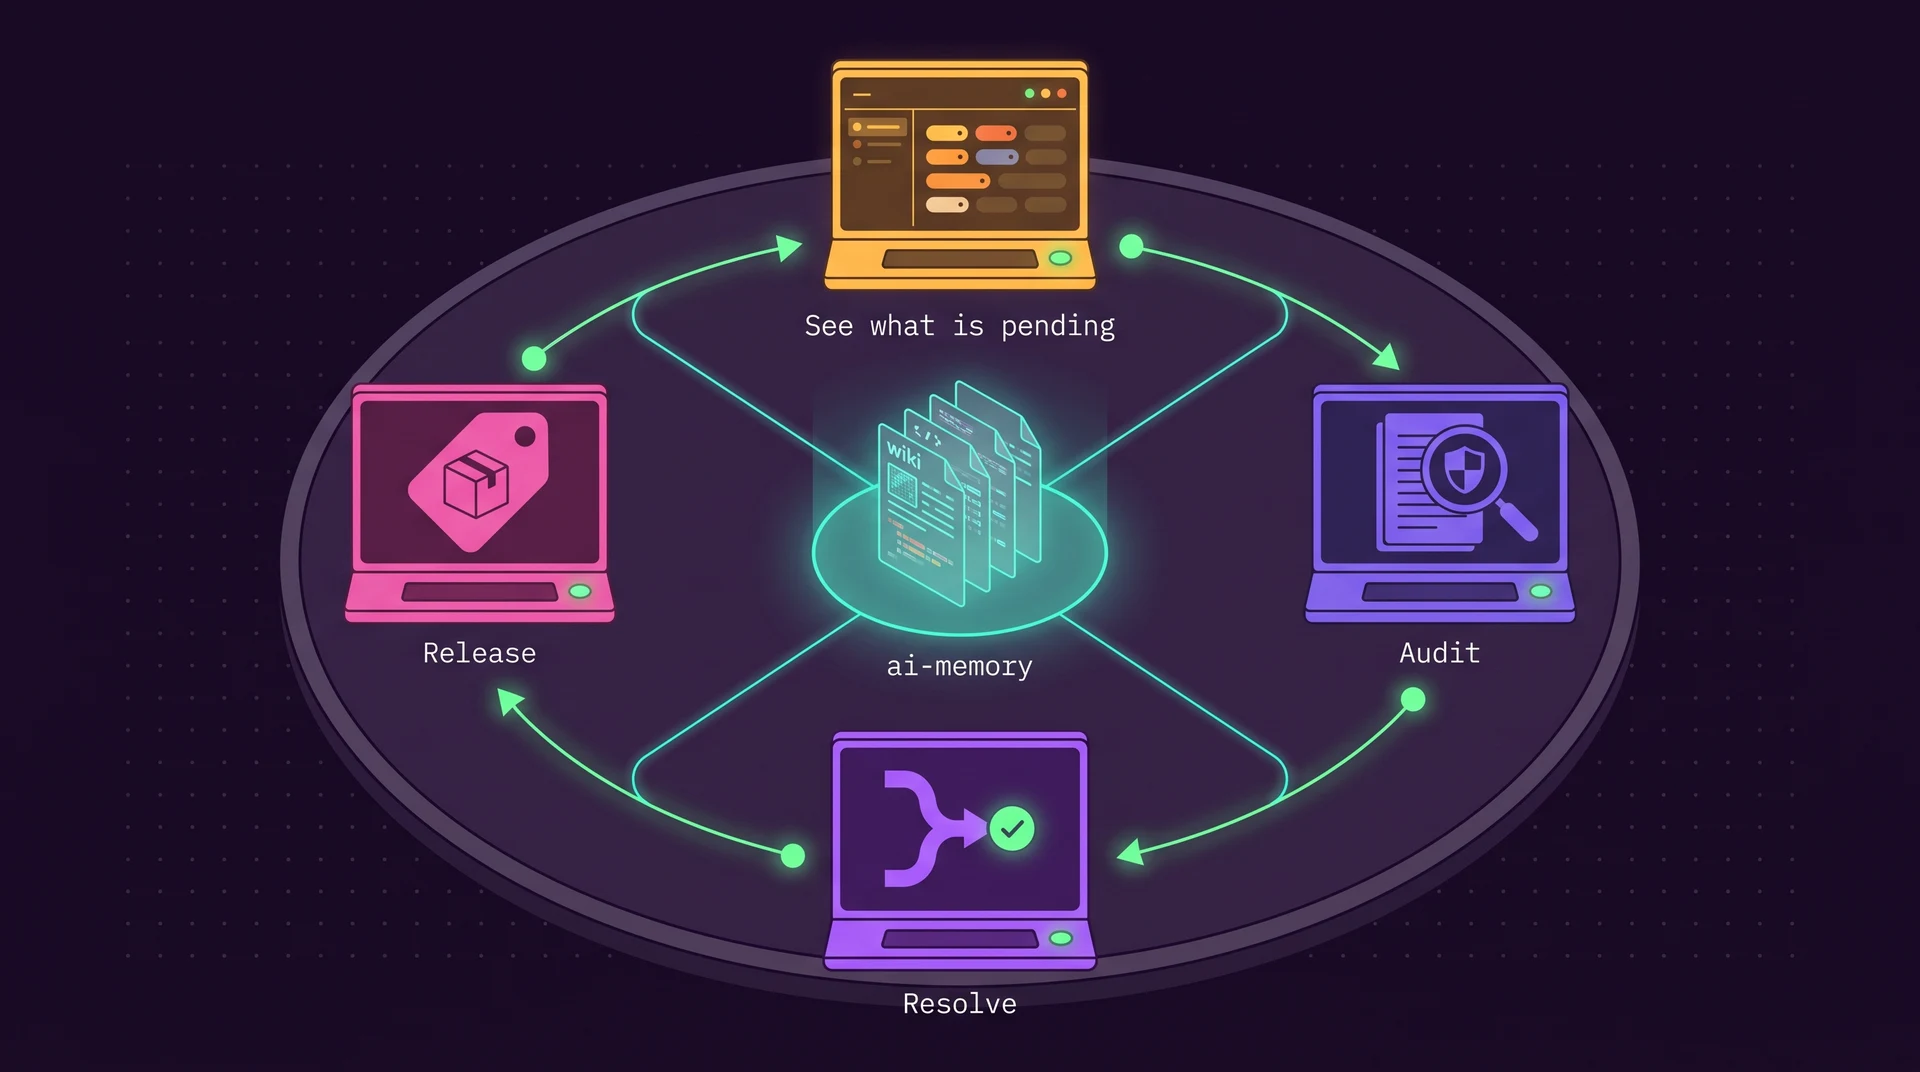
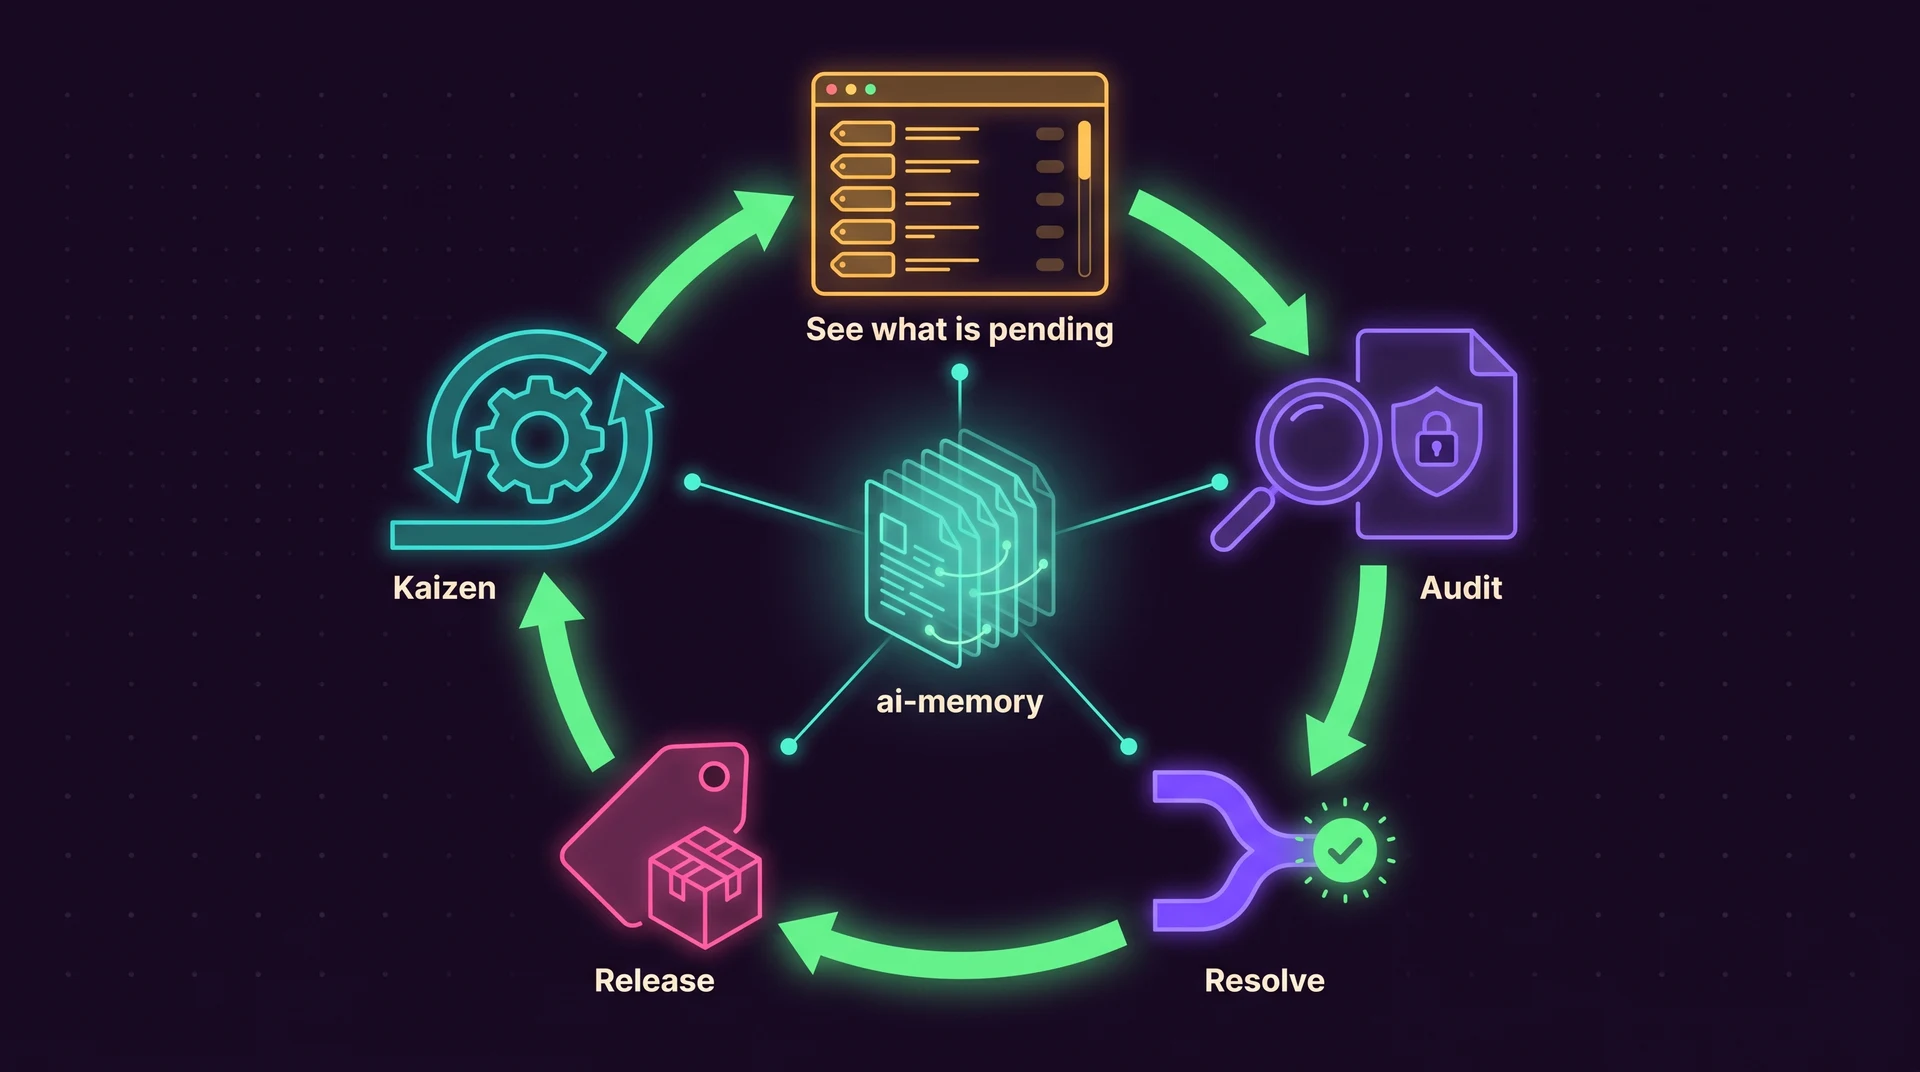
Humanizer pass, deduplication, and kaizen in the loop
- Copy: removed not-X-but-Y contrasts, aphorisms, closers and forced
  triads flagged by the humanizer skill.
- Duplicates: the home page gets a compact benchmark teaser linking to the
  full block on the writing page; the ai-memory run commands and the
  switch diagram each live in one place.
- Kaizen: fifth station of the daily loop and last step of the pipeline,
  with a section on the workflow page. Both diagrams regenerated.

diff --git a/docs/sources.md b/docs/sources.md
@@ -93,6 +93,7 @@ YouTube answers bursts of requests with a bot check. `refresh-videos.mjs` caches
 
 | Source | Lands in |
 |---|---|
+| Owner's instructions (2026-09-23): the loop does not end at release; kaizen, continuous improvement of tools, setup, harness instructions and skills from the problems found. The quote "Every line in these skills is a scar" and the two pr-bump rules are from the skills post (section 3) | `home.json` `loop`, `workflow.json` `kaizen`, diagrams `home-loop` and `workflow-pipeline` |
 | Owner's instructions (2026-09-23): the intro line (programmer for 30+ years, entrepreneur, speaker, writer, former YouTuber) linking to LinkedIn | `home.json` `hero.intro` |
 | Owner's instructions (2026-09-23): contact email `boss@akitaonrails.com` and the warning that goes with it (no sales, no sponsorship, no automatic reply, silence means no) | `site.ts` `site.email`, `home.json` `contact`, footer `Contact` link to `/#contact` |
 | Owner's instructions (2026-09-23): runs Omarchy and donated to its foundation; tmux mainly so nothing dies when a terminal closes; tried Herdr and agent orchestrators and did not need them personally, without calling them useless; memory matters most | `setup.json`, `setup.astro`. Third-party facts below |
